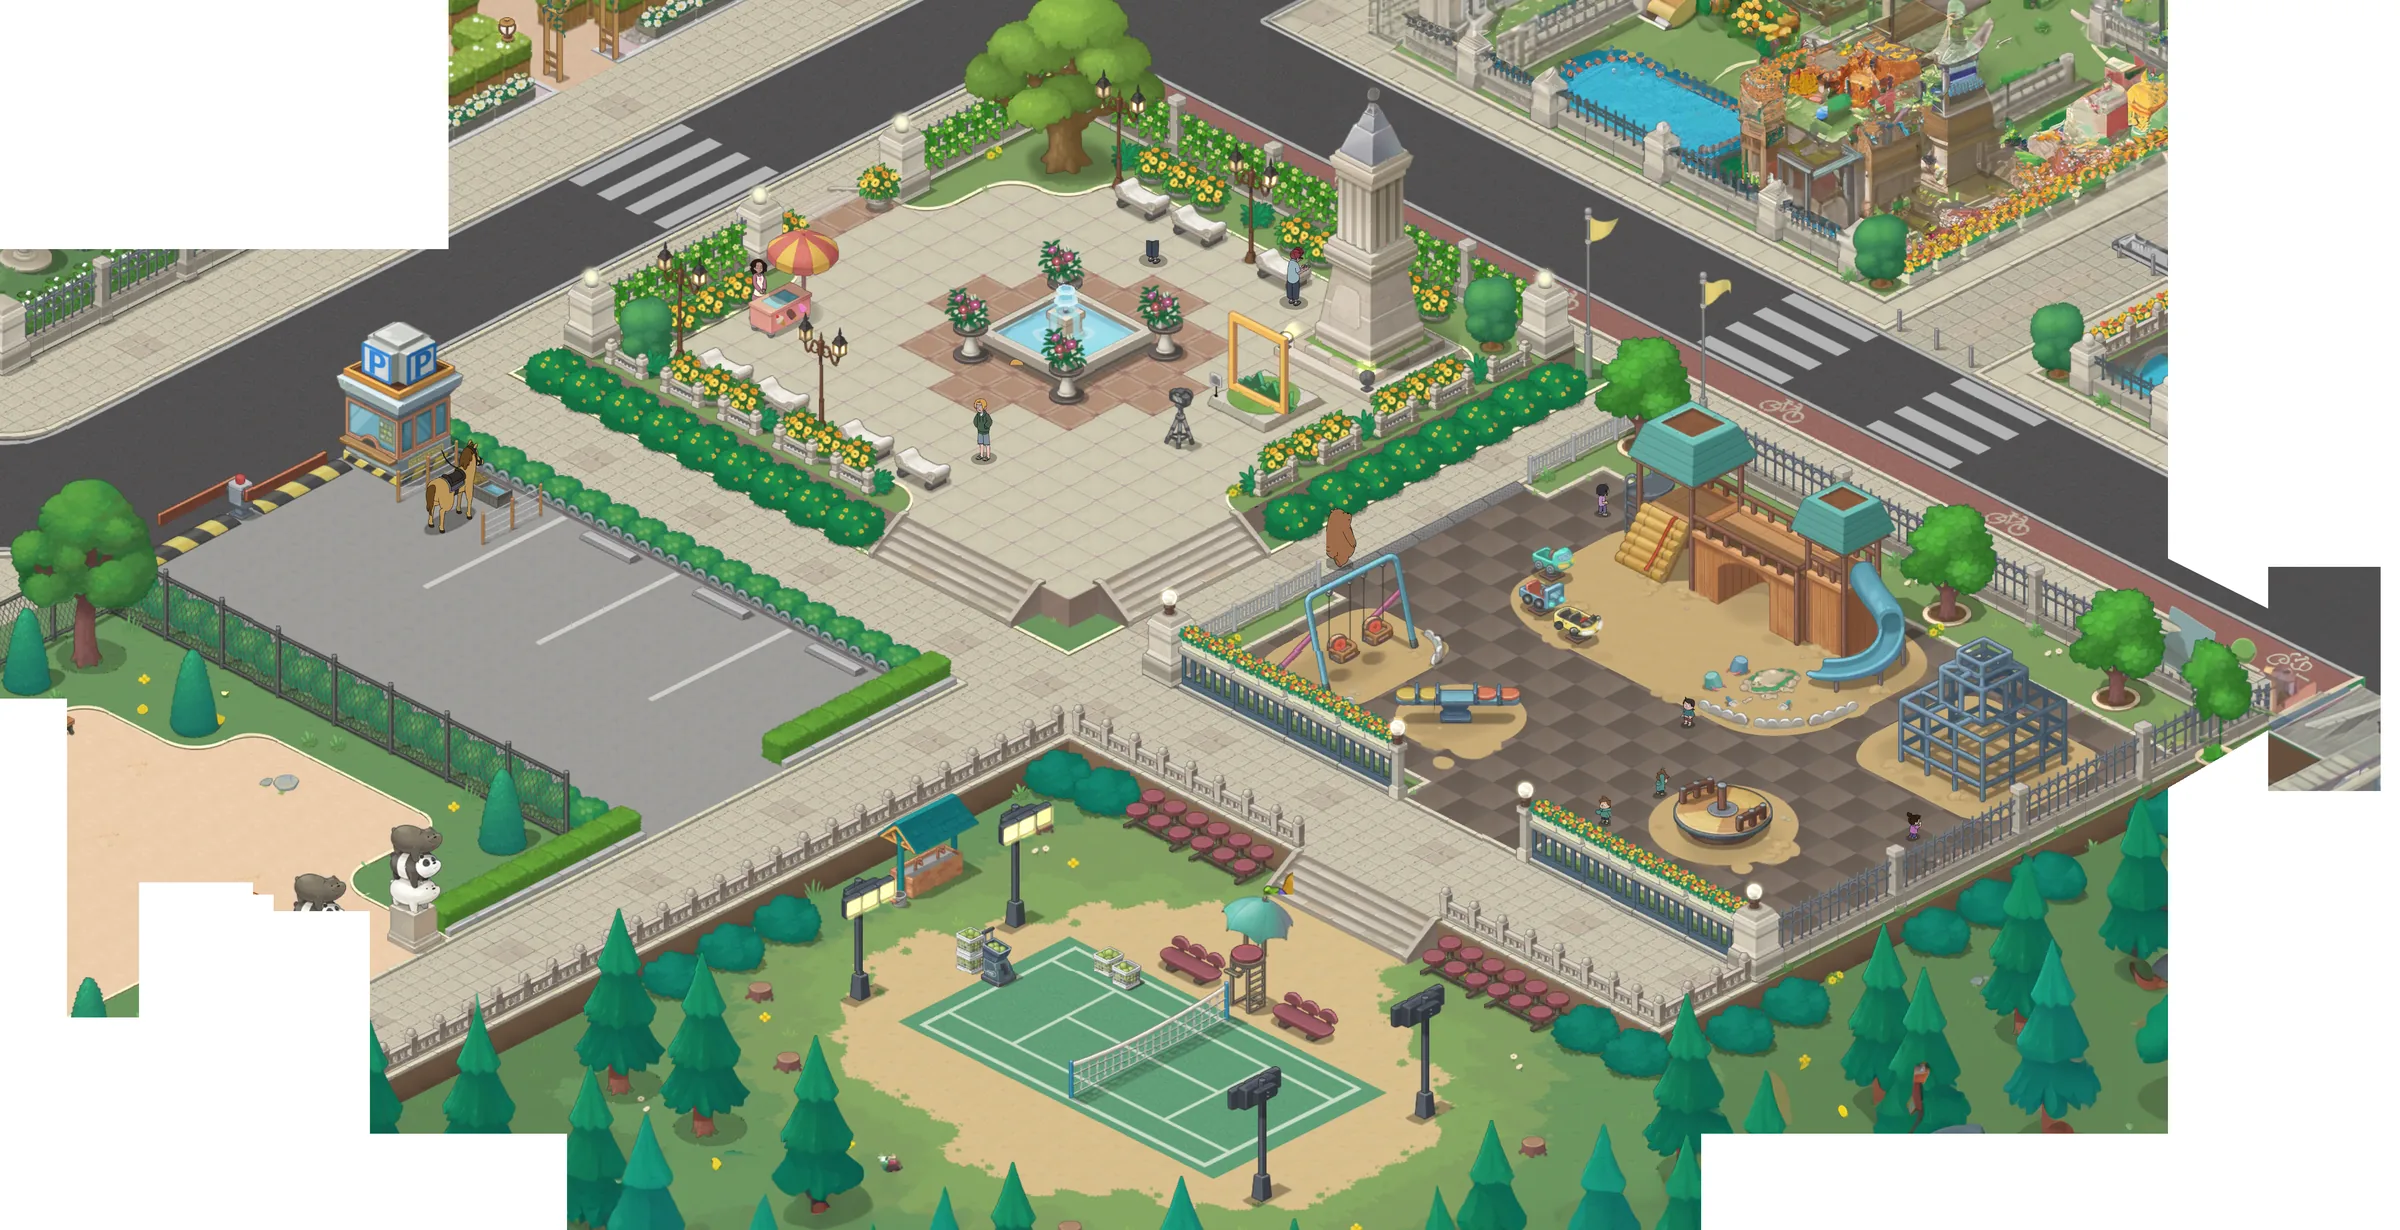
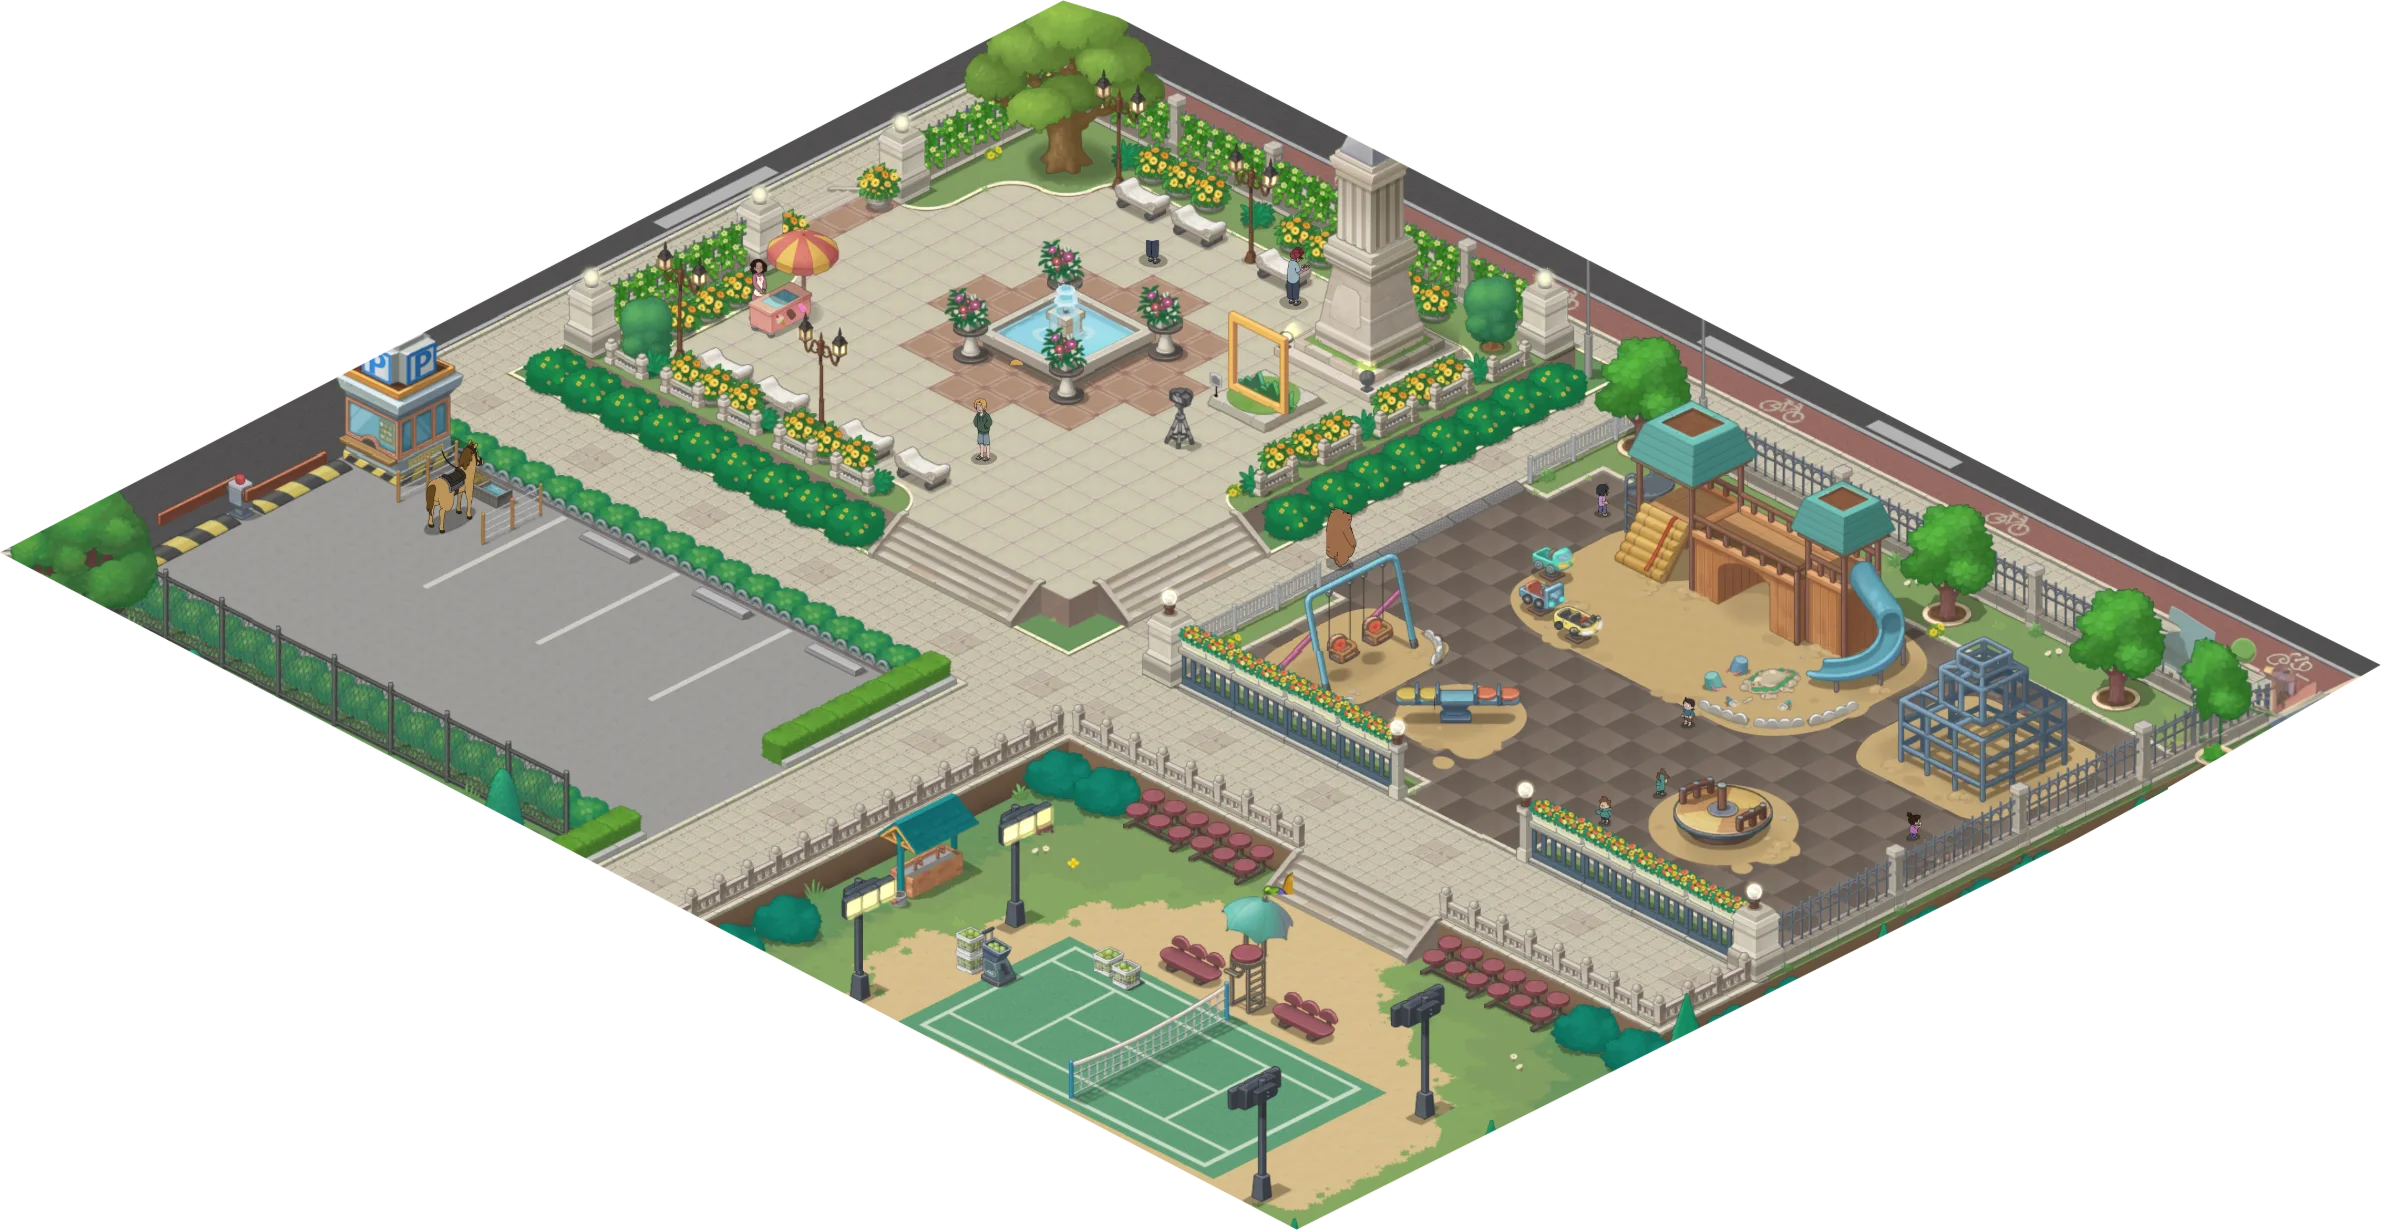
asd

diff --git a/works.html b/works.html
@@ -99,31 +99,31 @@
           </marker>
         </defs>
         <!-- 1: 광장 -> 놀이터 -->
-        <line x1="2480" y1="680" x2="3340" y2="1030" stroke="#1E4E66" stroke-width="16" stroke-dasharray="70 30" marker-end="url(#wbb-arrow)" opacity="0.9"/>
+        <line x1="2060" y1="908" x2="2743" y2="1210" stroke="#1E4E66" stroke-width="16" stroke-dasharray="70 30" marker-end="url(#wbb-arrow)" opacity="0.9"/>
         <!-- 2: 놀이터 -> 테니스장 -->
-        <line x1="3430" y1="1110" x2="2260" y2="1590" stroke="#1E4E66" stroke-width="16" stroke-dasharray="70 30" marker-end="url(#wbb-arrow)" opacity="0.9"/>
+        <line x1="2778" y1="1333" x2="2028" y2="1792" stroke="#1E4E66" stroke-width="16" stroke-dasharray="70 30" marker-end="url(#wbb-arrow)" opacity="0.9"/>
         <!-- 3: 테니스장 -> 주차장 -->
-        <line x1="2060" y1="1620" x2="700" y2="960" stroke="#1E4E66" stroke-width="16" stroke-dasharray="70 30" marker-end="url(#wbb-arrow)" opacity="0.9"/>
-        <!-- 1 광장 -->
-        <circle cx="2350" cy="650" r="60" fill="#1E4E66"/>
-        <text x="2350" y="650" fill="white" font-size="75" font-family="monospace" text-anchor="middle" dominant-baseline="middle" font-weight="bold">1</text>
-        <rect x="2420" y="618" width="260" height="64" fill="rgba(0,0,0,0.72)" rx="4"/>
-        <text x="2550" y="650" fill="white" font-size="58" font-family="monospace" text-anchor="middle" dominant-baseline="middle">광장</text>
-        <!-- 2 놀이터 -->
-        <circle cx="3490" cy="1080" r="60" fill="#1E4E66"/>
-        <text x="3490" y="1080" fill="white" font-size="75" font-family="monospace" text-anchor="middle" dominant-baseline="middle" font-weight="bold">2</text>
-        <rect x="3560" y="1048" width="340" height="64" fill="rgba(0,0,0,0.72)" rx="4"/>
-        <text x="3730" y="1080" fill="white" font-size="58" font-family="monospace" text-anchor="middle" dominant-baseline="middle">놀이터</text>
-        <!-- 3 테니스장 -->
-        <circle cx="2120" cy="1640" r="60" fill="#1E4E66"/>
-        <text x="2120" y="1640" fill="white" font-size="75" font-family="monospace" text-anchor="middle" dominant-baseline="middle" font-weight="bold">3</text>
-        <rect x="2190" y="1608" width="430" height="64" fill="rgba(0,0,0,0.72)" rx="4"/>
-        <text x="2405" y="1640" fill="white" font-size="58" font-family="monospace" text-anchor="middle" dominant-baseline="middle">테니스장</text>
-        <!-- 4 주차장 -->
-        <circle cx="600" cy="930" r="60" fill="#1E4E66"/>
-        <text x="600" y="930" fill="white" font-size="75" font-family="monospace" text-anchor="middle" dominant-baseline="middle" font-weight="bold">4</text>
-        <rect x="670" y="898" width="330" height="64" fill="rgba(0,0,0,0.72)" rx="4"/>
-        <text x="835" y="930" fill="white" font-size="58" font-family="monospace" text-anchor="middle" dominant-baseline="middle">주차장</text>
+        <line x1="1805" y1="1796" x2="1148" y2="1282" stroke="#1E4E66" stroke-width="16" stroke-dasharray="70 30" marker-end="url(#wbb-arrow)" opacity="0.9"/>
+        <!-- 1 광장 (label above) -->
+        <circle cx="1950" cy="860" r="60" fill="#1E4E66"/>
+        <text x="1950" y="860" fill="white" font-size="75" font-family="monospace" text-anchor="middle" dominant-baseline="middle" font-weight="bold">1</text>
+        <rect x="1820" y="720" width="260" height="64" fill="rgba(0,0,0,0.72)" rx="4"/>
+        <text x="1950" y="752" fill="white" font-size="58" font-family="monospace" text-anchor="middle" dominant-baseline="middle">광장</text>
+        <!-- 2 놀이터 (label right) -->
+        <circle cx="2880" cy="1270" r="60" fill="#1E4E66"/>
+        <text x="2880" y="1270" fill="white" font-size="75" font-family="monospace" text-anchor="middle" dominant-baseline="middle" font-weight="bold">2</text>
+        <rect x="2950" y="1238" width="340" height="64" fill="rgba(0,0,0,0.72)" rx="4"/>
+        <text x="3120" y="1270" fill="white" font-size="58" font-family="monospace" text-anchor="middle" dominant-baseline="middle">놀이터</text>
+        <!-- 3 테니스장 (label below) -->
+        <circle cx="1900" cy="1870" r="60" fill="#1E4E66"/>
+        <text x="1900" y="1870" fill="white" font-size="75" font-family="monospace" text-anchor="middle" dominant-baseline="middle" font-weight="bold">3</text>
+        <rect x="1685" y="1950" width="430" height="64" fill="rgba(0,0,0,0.72)" rx="4"/>
+        <text x="1900" y="1982" fill="white" font-size="58" font-family="monospace" text-anchor="middle" dominant-baseline="middle">테니스장</text>
+        <!-- 4 주차장 (label above) -->
+        <circle cx="1030" cy="1190" r="60" fill="#1E4E66"/>
+        <text x="1030" y="1190" fill="white" font-size="75" font-family="monospace" text-anchor="middle" dominant-baseline="middle" font-weight="bold">4</text>
+        <rect x="865" y="1050" width="330" height="64" fill="rgba(0,0,0,0.72)" rx="4"/>
+        <text x="1030" y="1082" fill="white" font-size="58" font-family="monospace" text-anchor="middle" dominant-baseline="middle">주차장</text>
       </svg>
 
       <!-- 미션 동선 설명 (맵 하단) -->
